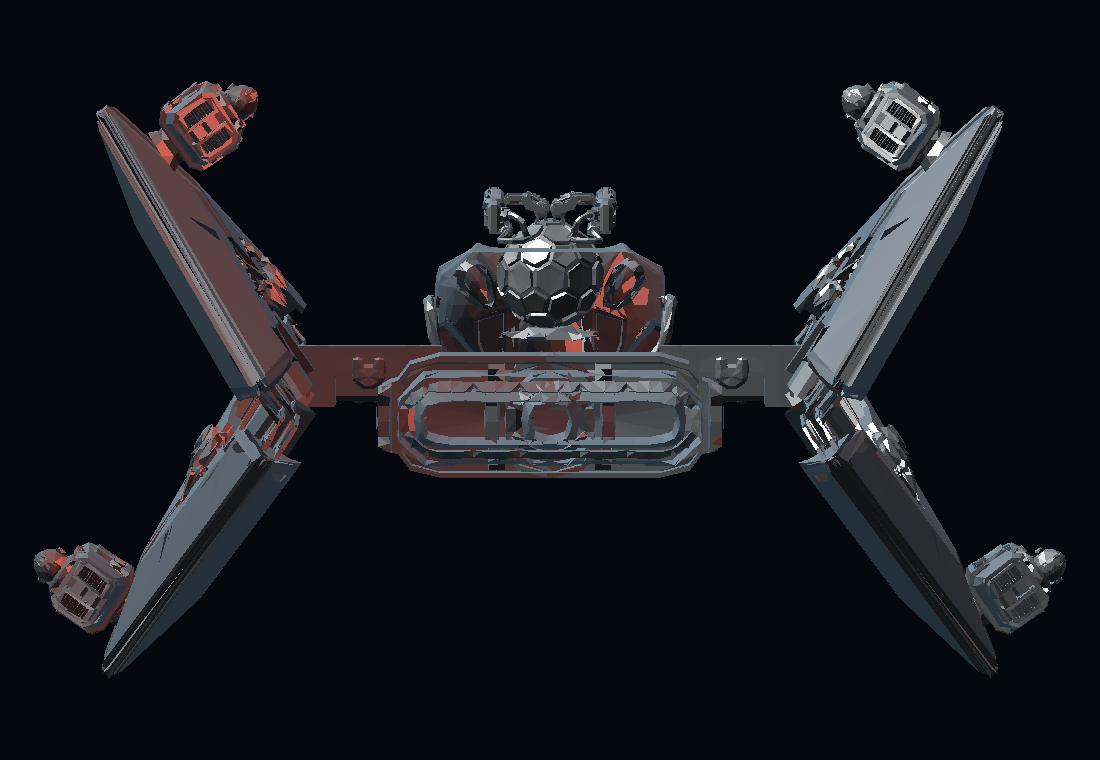
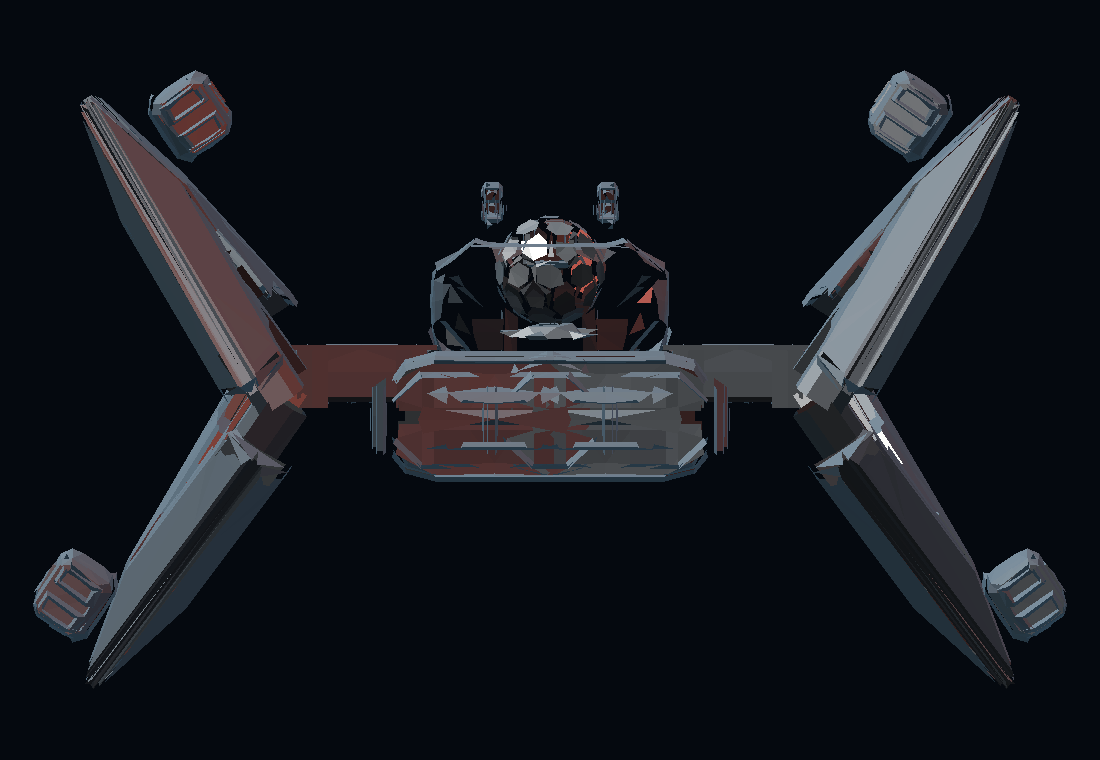
Star Destroyer: a wedge that tapers the whole way aft
The rows held the widest span for half the hull, so the plan view came out a brick
with a beak. Every row is now wider than the one in front of it and the pitch is
tight enough that the rows bite into each other instead of reading as grating.

Changed region(s): [[0.0309, 0.0908, 0.9891, 0.9079]]

diff --git a/src/lib/iconics/ships-capital.ts b/src/lib/iconics/ships-capital.ts
@@ -147,24 +147,30 @@ export function starDestroyer(bp: Blueprint): NamedRecipe {
   //
   // Wing plates were tried for this and failed: the game's wings are thin
   // perforated panels, and stretched to hull size their cut-outs become holes.
+  //   TAPER    a Star Destroyer widens the whole way aft; the first version held the
+  //            widest row for half the hull and rendered as a brick with a beak.
+  //            Every row is wider than the one in front of it, so the plan view is
+  //            the triangle it should be.
   const ROWS: [number, number][] = [
-    [1, 3.2],
-    [2, 2.4],
-    [3, 1.6],
-    [4, 0.7],
-    [5, -0.2],
-    [6, -1.1],
-    [7, -2.0],
-    [7, -2.9],
-    [7, -3.8],
-    [7, -4.7],
-    [7, -5.6],
-    [7, -6.5],
+    [1, 5.6],
+    [2, 4.7],
+    [2, 3.8],
+    [3, 2.9],
+    [4, 2.0],
+    [4, 1.1],
+    [5, 0.2],
+    [5, -0.7],
+    [6, -1.6],
+    [6, -2.5],
+    [7, -3.4],
+    [7, -4.3],
+    [7, -5.2],
+    [7, -6.1],
   ];
   for (const [across, z] of ROWS) {
-    const span = (across - 1) * 0.85;
+    const span = (across - 1) * 0.82;
     for (let i = 0; i < across; i++) {
-      const x = -span / 2 + i * 0.85;
+      const x = -span / 2 + i * 0.82;
       parts.push(
         put("B_CON_5", [Number(x.toFixed(2)), 0, z], {
           role: across <= 2 ? "prow plate" : "hull plate",
